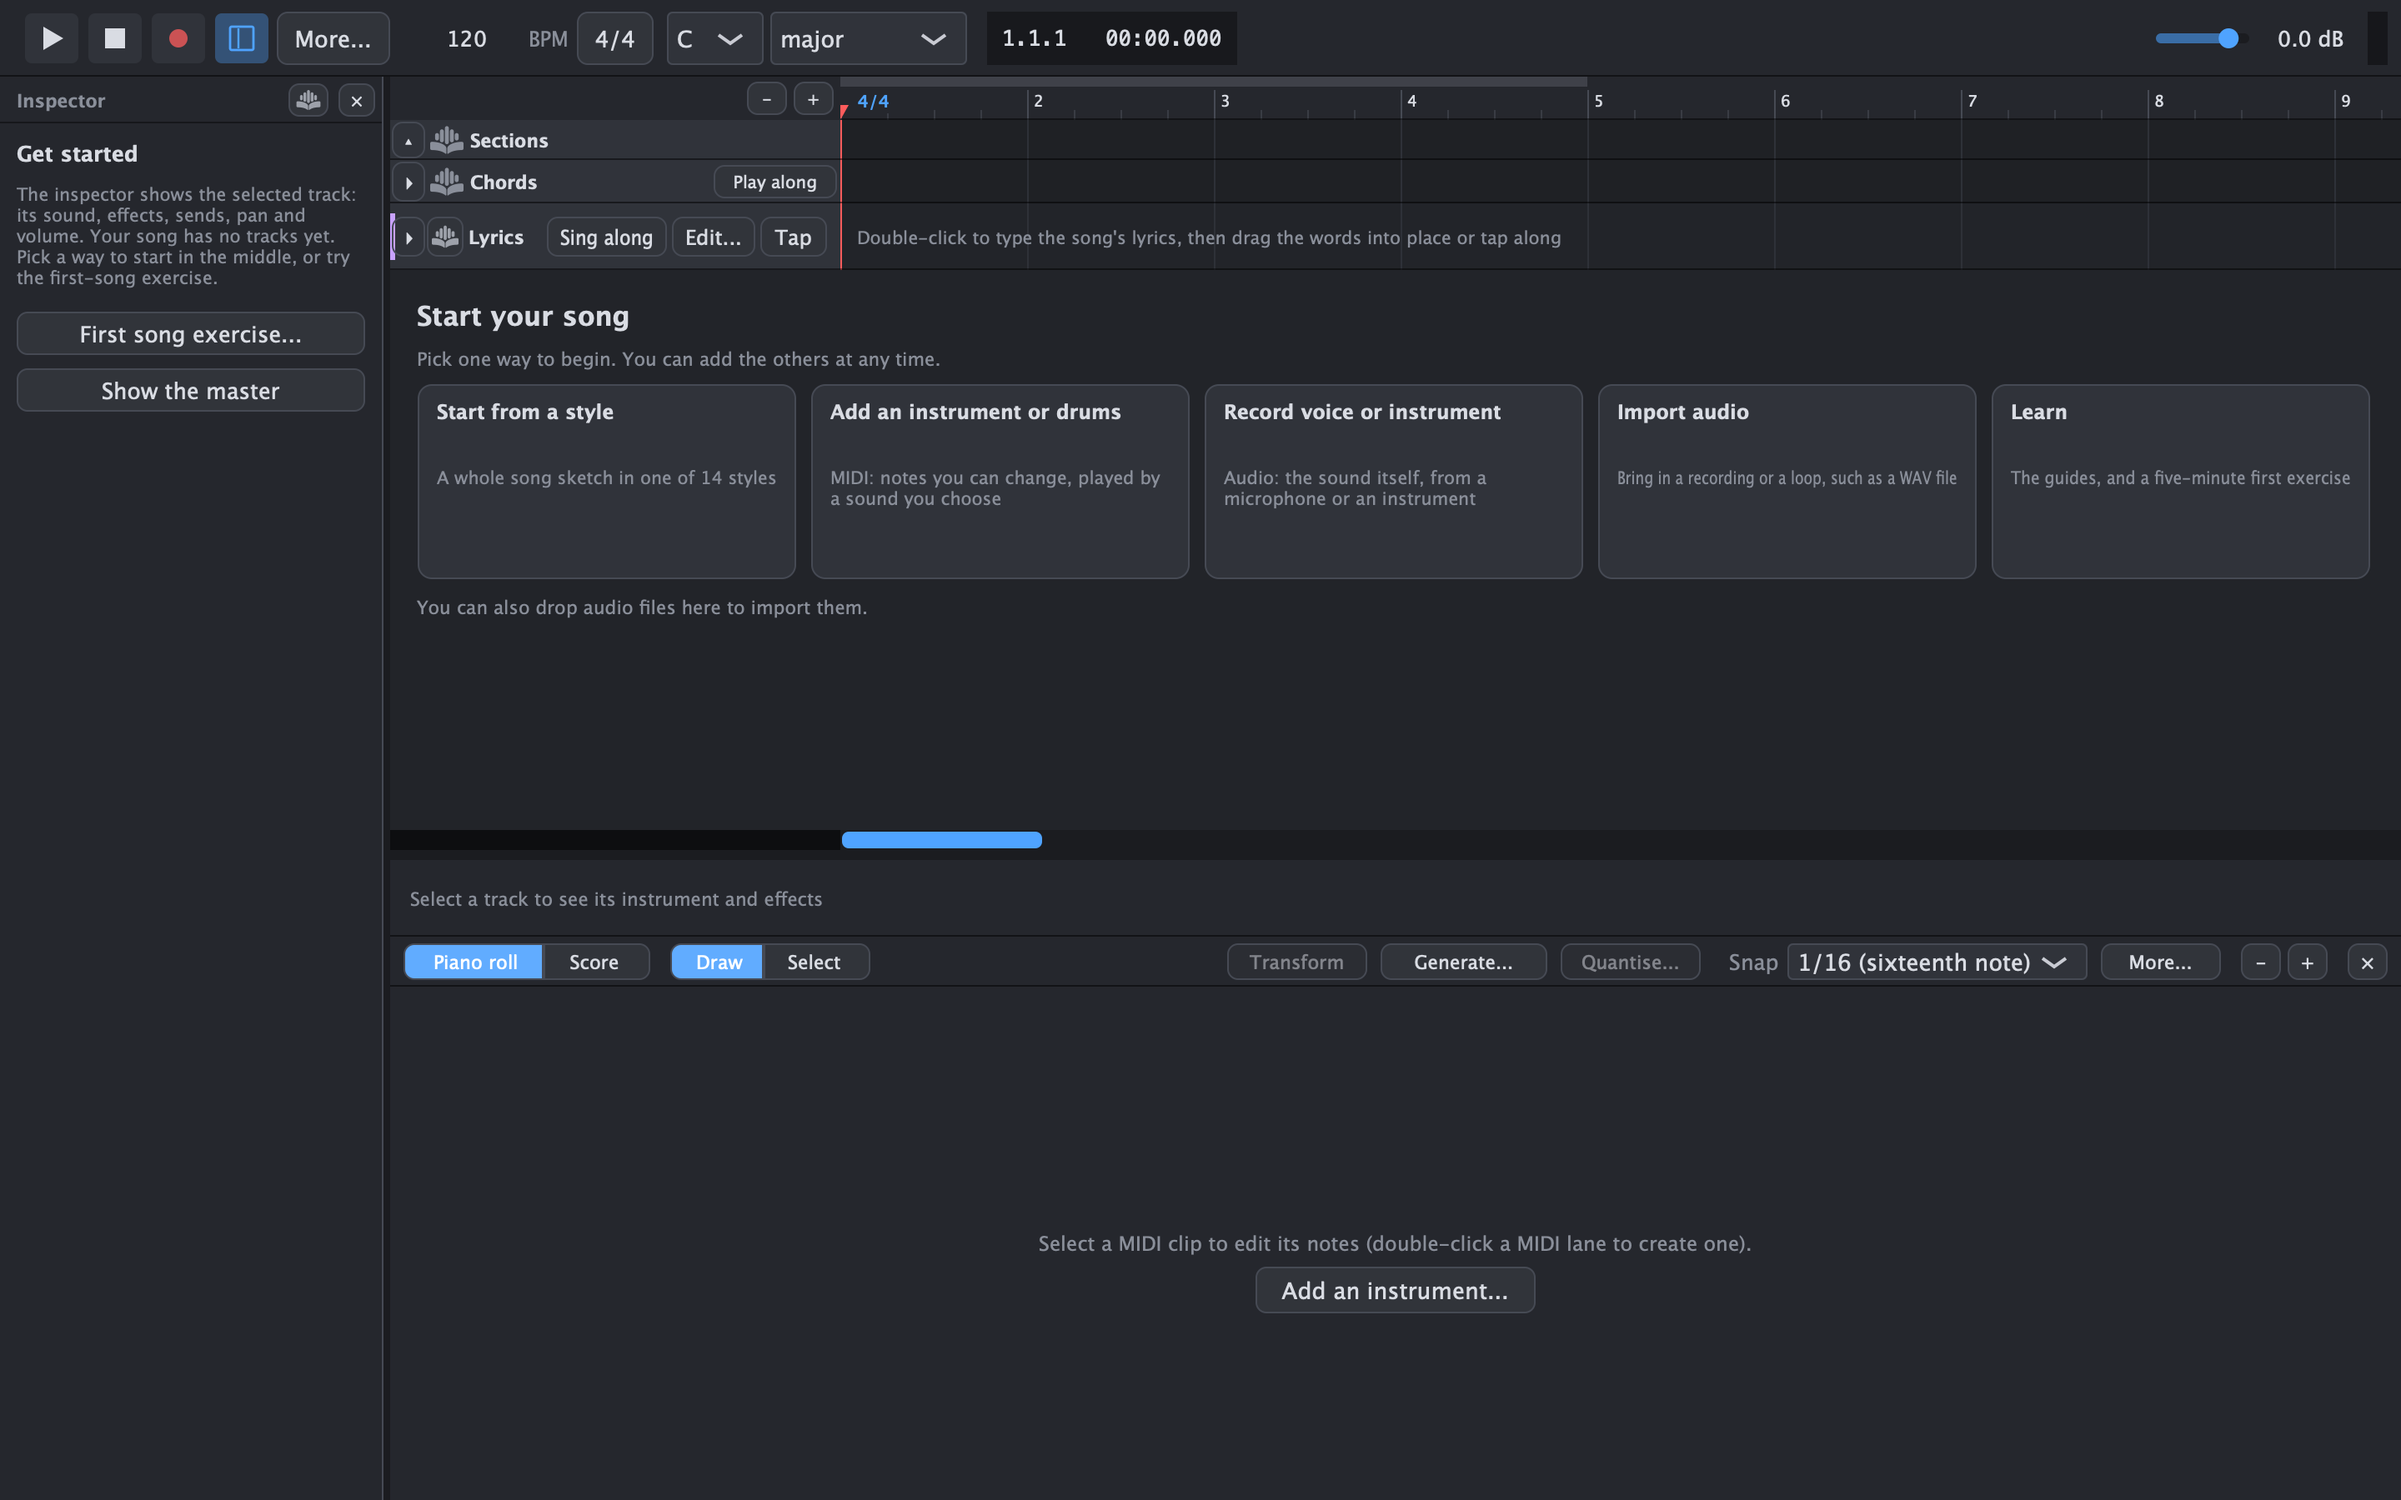
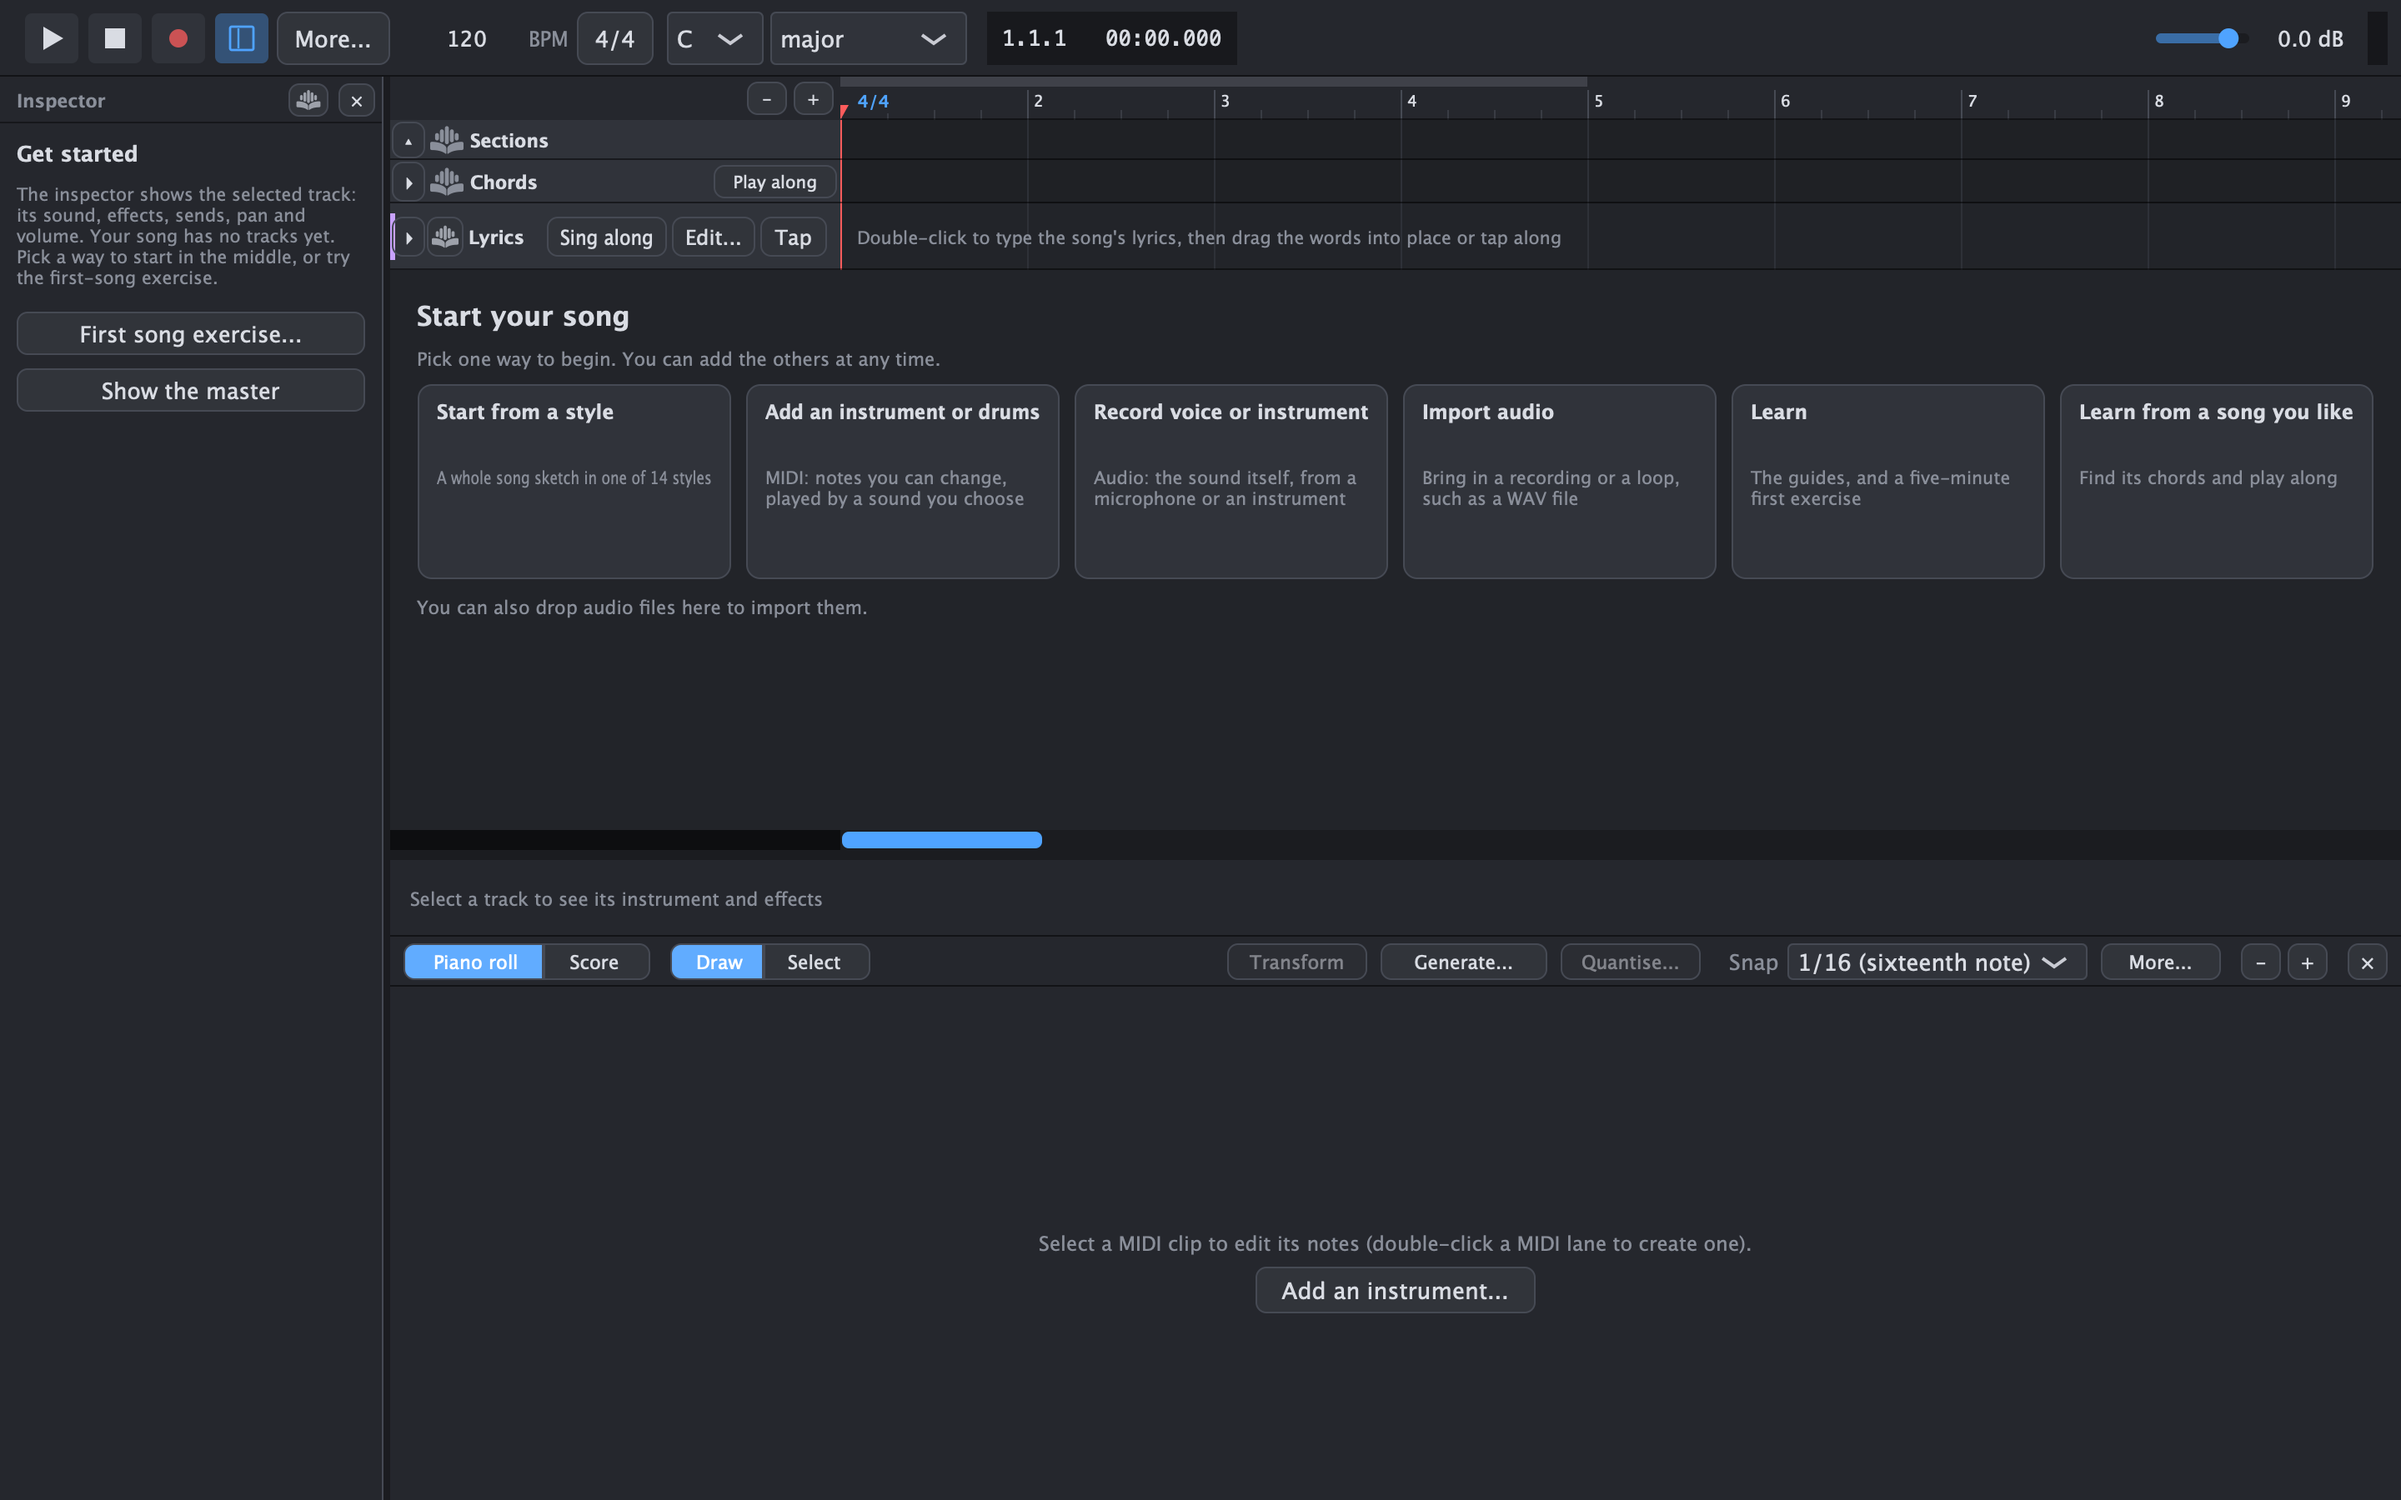
Website: the six-step Learn the chords of a song exercise and the Start your song panel's Learn from a song you like tile

Changed region(s): [[0.1875, 0.3111, 0.9688, 0.3422], [0.3125, 0.2489, 0.75, 0.28], [0.8438, 0.2489, 1.0, 0.28]]

diff --git a/website/features.html b/website/features.html
@@ -70,19 +70,20 @@
 <summary>
 <span>
 <strong>Start your song</strong>
-<span>Five ways to begin an empty song, and a four-step first exercise</span>
+<span>Six ways to begin an empty song, and two guided exercises</span>
 </span>
 <span class="disclosure" aria-hidden="true">+</span>
 </summary>
 <div class="feature-body">
         <h3>An empty song shows you where to start</h3>
-        <p>A song with no tracks shows <em>Start your song</em> over the arrangement: five tiles, each a different way to begin. Pick one, and DawIt makes the track and points at the control to use next. You can add the others at any time.</p>
+        <p>A song with no tracks shows <em>Start your song</em> over the arrangement: six tiles, each a different way to begin. Pick one, and DawIt makes the track and points at the control to use next. You can add the others at any time.</p>
         <ul>
           <li><strong>Start from a style.</strong> A whole song sketch in the style, key and tempo you choose, the same as <em>File &gt; New Project from Style...</em>.</li>
           <li><strong>Add an instrument or drums.</strong> Notes you can change, played by a sound you choose. DawIt adds the track with an empty clip and opens it in the piano roll. The <em>Add an instrument...</em> button under the piano roll&#x27;s &quot;Select a MIDI clip&quot; text does the same.</li>
           <li><strong>Record voice or instrument.</strong> Adds a recording track and points at its <em>R</em> button. It does not arm the track or start recording for you. If the computer has no audio input, the note says so and offers <em>Audio/MIDI Settings...</em>.</li>
           <li><strong>Import audio.</strong> Choose a recording or a loop, such as a WAV file, to put on a new audio track at the playhead. Dropping audio files on the panel does the same.</li>
           <li><strong>Learn.</strong> Opens the <a href="#theory-guides">Theory Guides</a> window on Start here.</li>
+          <li><strong>Learn from a song you like.</strong> Opens the exercise that finds a song&#x27;s chords and lets you play along (see <em>Learn the chords of a song</em> below).</li>
           <li><strong>A pointer to the next control.</strong> A small note points at the control to use next, follows it if it moves, and goes away after about 20 seconds, when you click somewhere else, press Esc or click its x.</li>
           <li><strong>A welcome in the inspector.</strong> With no tracks, the inspector says <em>Get started</em> and offers <em>First song exercise...</em>. Once the song has a track, it shows that track instead.</li>
         </ul>
@@ -102,9 +103,9 @@
         </ul>
       <figure class="shot detail-shot">
         <a class="image-link" href="assets/screenshots/start-your-song-panel.png" target="_blank" rel="noopener" title="Open screenshot at full size">
-<img src="assets/screenshots/start-your-song-panel.png" width="2880" height="1800" alt="DawIt with an empty song. In the middle, Start your song with five tiles: Start from a style, Add an instrument or drums, Record voice or instrument, Import audio and Learn. The inspector on the left says Get started and offers First song exercise... and Show the master" loading="lazy" decoding="async">
+<img src="assets/screenshots/start-your-song-panel.png" width="2880" height="1800" alt="DawIt with an empty song. In the middle, Start your song with six tiles: Start from a style, Add an instrument or drums, Record voice or instrument, Import audio, Learn, and Learn from a song you like. The inspector on the left says Get started and offers First song exercise... and Show the master" loading="lazy" decoding="async">
 </a>
-        <figcaption>An empty song: the five tiles, and the inspector&#x27;s <em>Get started</em> welcome.</figcaption>
+        <figcaption>An empty song: the six tiles, and the inspector&#x27;s <em>Get started</em> welcome.</figcaption>
       </figure>
       <figure class="shot detail-shot">
         <a class="image-link" href="assets/screenshots/start-your-song-pointer.png" target="_blank" rel="noopener" title="Open screenshot at full size">
@@ -117,6 +118,27 @@
 <img src="assets/screenshots/first-song-exercise-step-2.png" width="720" height="1000" alt="The First Song Exercise window on step 2, Change a chord. The four steps are listed with Change a chord open, showing what to do and why, and the buttons Put in four chords, Show me and Your chord track. Below are Add a rhythm and Save your song, then Back, 0 of 4 done, Skip and Next" loading="lazy" decoding="async">
 </a>
         <figcaption>The exercise on step 2, with nothing ticked yet.</figcaption>
+      </figure>
+        <h3>Learn the chords of a song</h3>
+        <p>Choose <em>Help &gt; Learn the Chords of a Song...</em>, the <em>Learn from a song you like</em> tile, or right-click an audio clip and choose <em>Learn this song&#x27;s chords...</em>. Six steps take a song you like from a recording to something you can play along with. Each says what to do and why, and the tick appears when the song shows it. Everything runs on your computer.</p>
+        <ol>
+          <li><strong>Bring in a song.</strong> Choose a song file on your computer, such as an MP3 or WAV file, or drag the file onto the tracks. The exercise needs a recording of at least 4 bars.</li>
+          <li><strong>Find its tempo.</strong> <a href="#detect-tempo">Detect tempo</a> listens for the beat and shows the speed in BPM (beats per minute). <em>Set tempo</em> gives the song that tempo and moves the recording so its first bar starts on a bar line, so the bars on the ruler are the song&#x27;s bars. If the result feels twice as fast or as slow as you would tap your foot, choose half or double first.</li>
+          <li><strong>Find its chords.</strong> <a href="#detect-chords">Detect chords</a> names one chord per bar and puts them on the Chords row, for example C, G, Am and F.</li>
+          <li><strong>Find its sections.</strong> <a href="#detect-structure">Detect song structure</a> shows the parts it hears, such as intro, verse and chorus, and which parts are the same music. <em>Put on Sections row</em> adds them above the chords, where you can loop a section to practise it.</li>
+          <li><strong>Play along.</strong> <a href="#play-along">Play along</a> shows the chord playing now, large, as piano keys and a guitar chord box. The exercise counts the bars you have played with a chord showing, such as &quot;2 of 4 bars&quot;.</li>
+          <li><strong>Swap a chord.</strong> Change one chord and hear what changes. For a major chord DawIt suggests its relative minor, and for a minor chord its relative major.</li>
+        </ol>
+        <ul>
+          <li><strong>Show me.</strong> Points at the control for the open step, such as the recording, the Chords row or the Play along button.</li>
+          <li><strong>Missing pieces are explained.</strong> If there is no recording, a clip shorter than 4 bars, no beat found or no audio output, the status line says what to fix, and the button becomes the way forward, such as <em>Import audio</em> or <em>Audio/MIDI Settings...</em>.</li>
+          <li><strong>A guide for each step.</strong> Buttons open the matching Theory Guides pages.</li>
+        </ul>
+      <figure class="shot detail-shot">
+        <a class="image-link" href="assets/screenshots/song-chords-exercise-step-4.png" target="_blank" rel="noopener" title="Open screenshot at full size">
+<img src="assets/screenshots/song-chords-exercise-step-4.png" width="2880" height="1800" alt="DawIt with a 16-bar example recording on an audio track called Song. Above it the Sections row shows Verse 1 and Chorus 1, each 4 bars, then a second Verse, and the Chords row shows C, G, Am and F in bars 1 to 4, then G and C. Below, the recording&#x27;s waveform is open in the wave editor" loading="lazy" decoding="async">
+</a>
+        <figcaption>After finding a recording&#x27;s chords and sections: the Sections and Chords rows above the recording, a made-up example. The exercise window is not in this picture.</figcaption>
       </figure>
   </div>
 </details>

diff --git a/website/for-you.html b/website/for-you.html
@@ -472,6 +472,10 @@
 </strong> Find the chords of a recording, bar by bar, and play along with them.</li>
           <li>
 <strong>
+<a href="features.html#start-your-song">Learn the chords of a song.</a>
+</strong> A six-step exercise: bring in a song you like, find its tempo, chords and sections, play along and swap a chord.</li>
+          <li>
+<strong>
 <a href="features.html#audio-to-midi">Audio to MIDI.</a>
 </strong> Turn a melody or bass line into notes you can see and play back.</li>
           <li>
@@ -513,7 +517,7 @@
         <h3>Learn theory from guides that use your own song</h3>
         <p>Wants the theory explained, with a song to explain it with.</p>
         <p>
-<strong>Start here:</strong> Press Cmd+G for the Theory Guides window and open the Start here path, or try the <a href="features.html#start-your-song">First Song Exercise</a> (Help &gt; First Song Exercise...): hear a note, change a chord, add a rhythm and save, in your own song.</p>
+<strong>Start here:</strong> Press Cmd+G for the Theory Guides window and open the Start here path, or try the <a href="features.html#start-your-song">First Song Exercise</a> (Help &gt; First Song Exercise...): hear a note, change a chord, add a rhythm and save, in your own song. A second exercise, <a href="features.html#start-your-song">Learn the chords of a song</a> (Help &gt; Learn the Chords of a Song...), starts from a recording you like.</p>
         <p>Many guides have a <em>Your song</em> topic that looks at your own song, and every guide has <em>Export PDF...</em> for a printed booklet.</p>
         <ul>
           <li>

diff --git a/website/learn.html b/website/learn.html
@@ -76,7 +76,7 @@
 <div class="section-heading">
 <p class="eyebrow">A path for your first session</p>
 <h2>Start small.<br>Build the understanding.</h2>
-<p>In DawIt’s Theory Guides window, Start here opens with the First Song Exercise: four short steps in your own song (hear a note, change a chord, add a rhythm and save), with the matching guide page beside each. Below it is a numbered route through the foundations, and each page of the route ends with a <em>Next page</em> button. Explore at your own pace. <a class="text-link" href="features.html#start-your-song">About the exercise →</a></p>
+<p>In DawIt’s Theory Guides window, Start here opens with the First Song Exercise: four short steps in your own song (hear a note, change a chord, add a rhythm and save), with the matching guide page beside each. Below it is a numbered route through the foundations, and each page of the route ends with a <em>Next page</em> button. Explore at your own pace. A second exercise, Learn the chords of a song, takes a recording you like through finding its tempo, chords and sections, then playing along and swapping a chord. <a class="text-link" href="features.html#start-your-song">About the exercises →</a></p>
 </div>
 <ol class="learning-path">
 <li>
